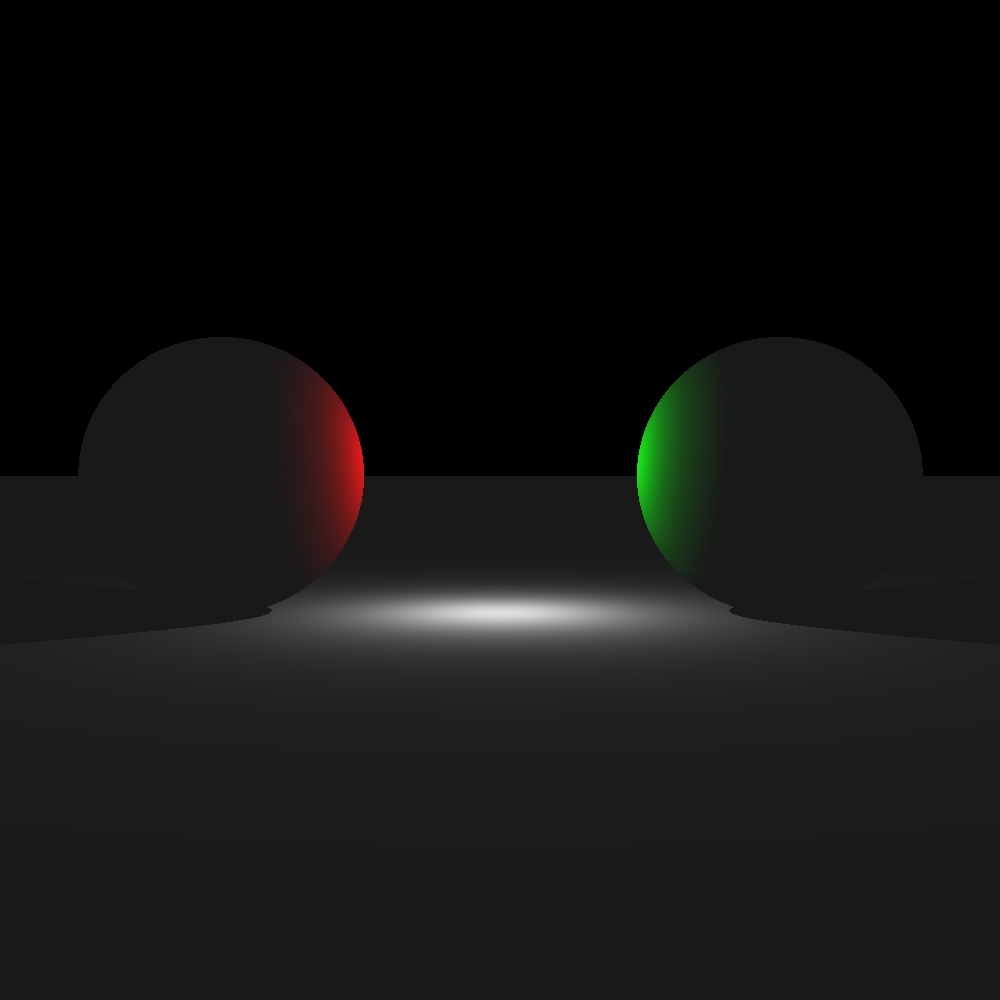
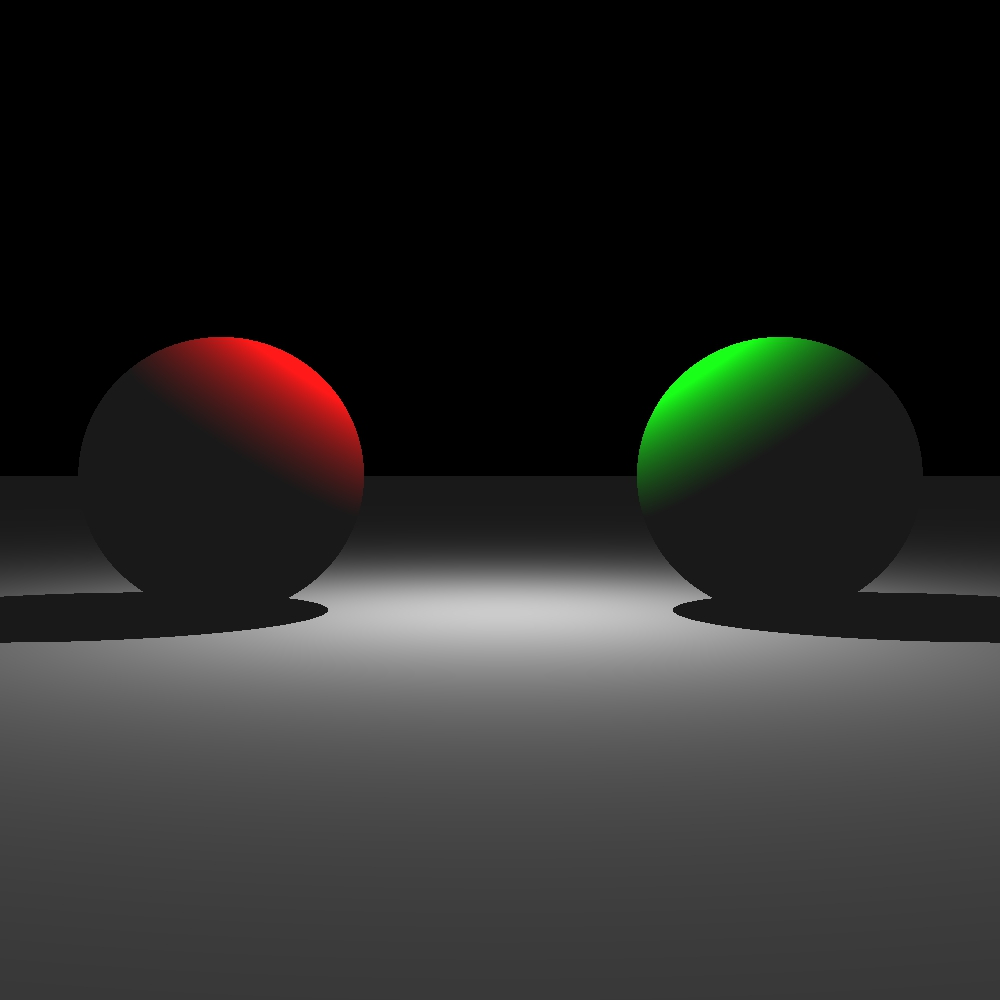
fix
the lighting artifact discovered earlier was due to the colors not being clampped, so they ended up overlfowing.

diff --git a/src/RayTracer.cpp b/src/RayTracer.cpp
@@ -51,7 +51,7 @@ ofImage RayTracer::lambertRayTracer(const RayCam& cam, const std::vector<SceneOb
 					//std::cout << returnedI << std::endl;
 					col += Hit.hitObject->getDiffuse() * (I*r2) * glm::max(0.0f, glm::dot(Hit.hitNorm, glm::normalize(diff))) * glm::clamp(returnedI.x, 0.0f, 1.0f);
 				}
-				pixCol = getColFromVec(col);
+				pixCol = getColFromVec(glm::clamp(col, glm::vec3(0.0f,0.0f,0.0f), glm::vec3(1.0f,1.0f,1.0f))); // need to clamp so our values to explode
 			}
 			canvas.setColor(j, i, pixCol);
 		}

diff --git a/src/ofApp.cpp b/src/ofApp.cpp
@@ -13,8 +13,8 @@ void ofApp::setup(){
 	cam.setPos(glm::vec3(0,25,100));
 	Light* light1 = new Light();
 	light1->color = glm::vec3(1.0f, 1.0f, 1.0f);
-	light1->intensity = 1000.0f;
-	light1->pos = glm::vec3(0, 30, -100);
+	light1->intensity = 10000.0f;
+	light1->pos = glm::vec3(0, 100, -100);
 	lights.push_back(light1);
 	ofImage img;
 	RayTracer::lambertRayTracer(cam, set, lights, glm::vec2(1000, 1000), img);

diff --git a/src/Light.h b/src/Light.h
@@ -1,7 +1,7 @@
 #pragma once
 #include "ofMain.h"
 #include "Ray.h"
-#define LIGHT_EPSILON 0.001f //if you're seeing spots, play with this value
+#define LIGHT_EPSILON 0.1f //if you're seeing spots, play with this value
 class Light
 {
 public:
